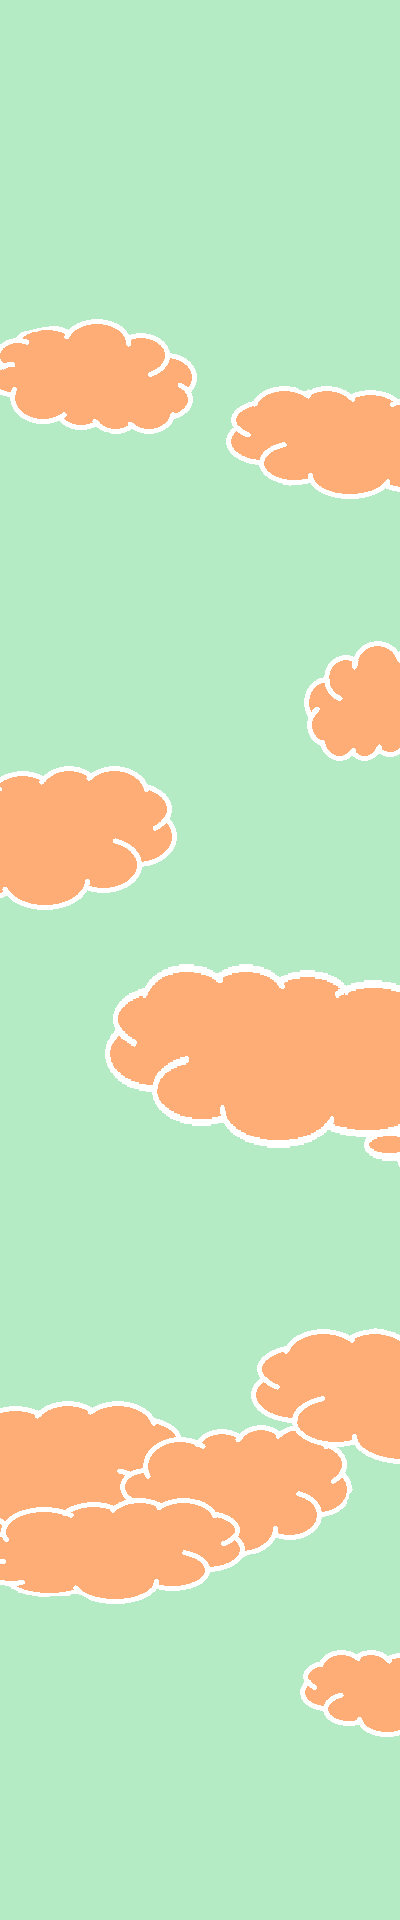
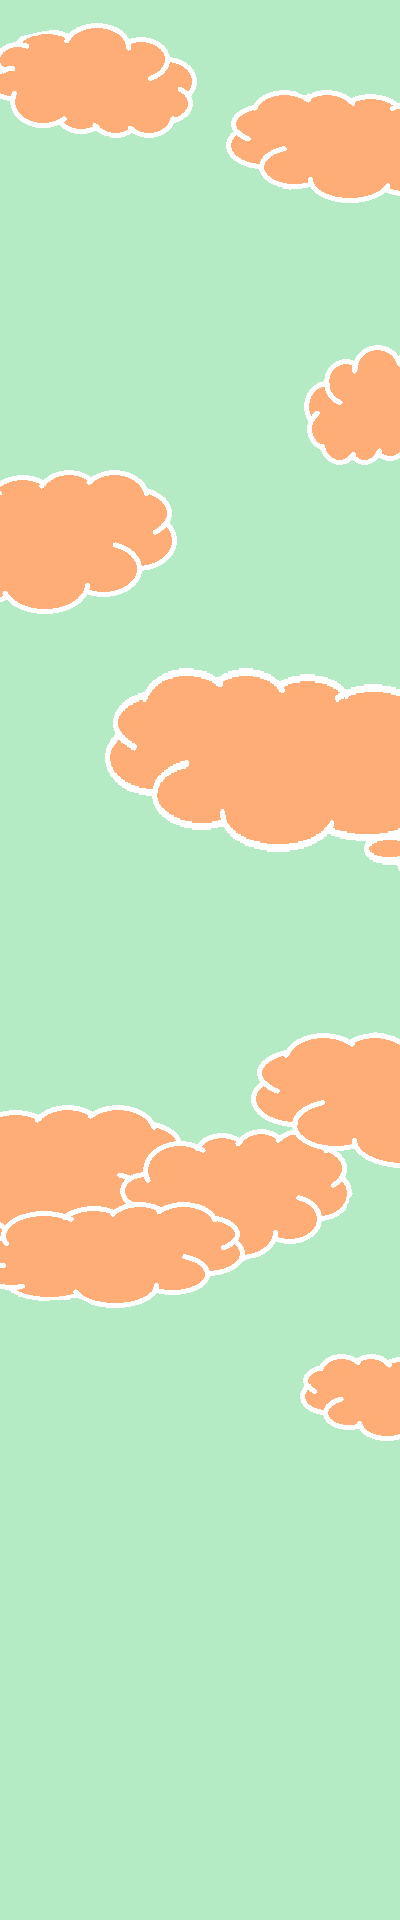
More work on level 7

diff --git a/levels.js b/levels.js
@@ -585,6 +585,10 @@ function Levels() {
 		blocks.push(new CircleBlock(150,350,50));
 		blocks.push(new RegBlock(250,250,150,20));
 		blocks.push(new RegBlock(380,0,20,250));
+		blocks.push(new CircleBlock(300,0,50));
+		blocks.push(new CircleBlock(100,-100,50));
+		blocks.push(new RegBlock(0,0,20,250));
+		blocks.push(new RegBlock(0,250,100,20));
 		// blocks.push(new CircleBlock(150,300,50));
 		
 		
@@ -630,7 +634,7 @@ function Levels() {
 			ball.needUpdate = false;
 		}
 		
-		// this.moveCamera(blocks[2],0,-this.cameraSpeed,-200);
+		this.moveCamera(blocks[5],0,-this.cameraSpeed,-300);
 		// this.moveCamera(blocks[3],1,-this.cameraSpeed,-400);
 		// this.moveCamera(blocks[4],2,-this.cameraSpeed,-400);
 		// this.moveCamera(blocks[5],3,-this.cameraSpeed,-300);
